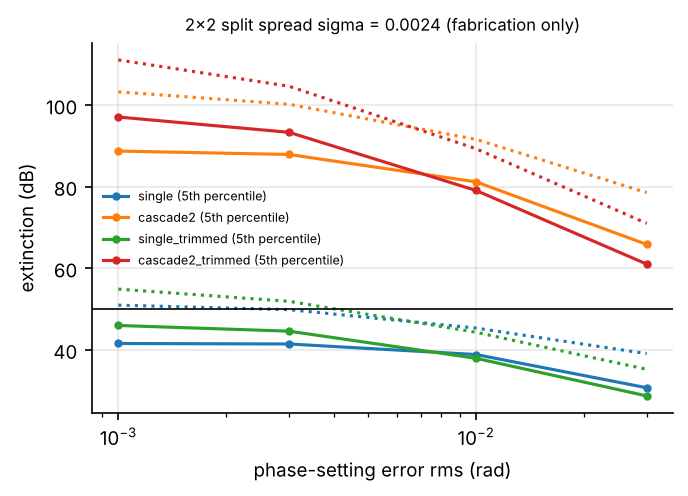
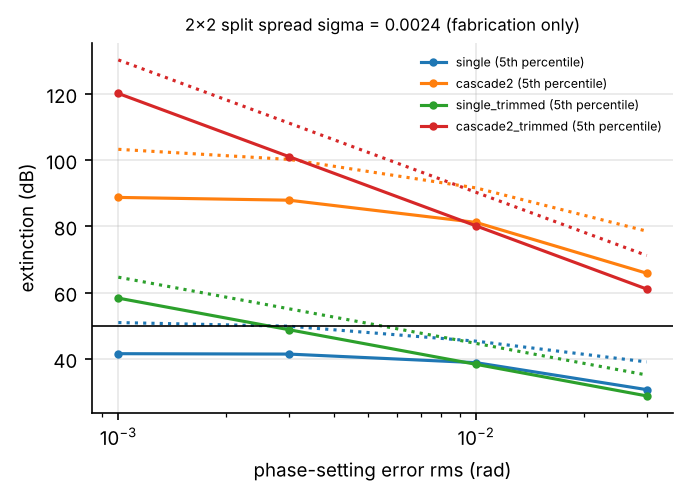
Module 4 and 6 results; exact trimmed-MZI null; faster OPA far field
- Switch Monte Carlo: cascaded MZI pair >= 50 dB in all trials (5th
  percentile 66-88 dB); trimmed single MZI needs <= 3 mrad phase accuracy
- Trimmed splitter now solves the full null condition (coupler and
  arm-loss imbalance)
- Actuator dynamics: ZVD shaping reaches 50 dB in ~49 ns with 2% f0 error
- Router leakage, insertion loss and input power; on-chip power handling
- OPA array factor restricted to the propagating band (was a dense
  nfft x N matrix); chunked atom-plane transform

Claude-Session: https://claude.ai/code/session_013HRuYiRKGyojFnTK4EEDMP

diff --git a/picsim/opa/array.py b/picsim/opa/array.py
@@ -85,8 +85,17 @@ class OPA:
         return np.exp(-1j * k * np.outer(s, self.xn)) @ c
 
     def far_field(self, phases):
-        """Far-field amplitude U(s) on self.s (element factor x array factor)."""
-        return self._E_el * self.array_factor(phases)
+        """Far-field amplitude U(s) on self.s (element factor x array factor).
+
+        Only the propagating band |s| < 1 is computed; evanescent components never reach the slit or the
+        atoms, and the emitted power is defined on |s| < 1.
+        """
+        if not hasattr(self, "_prop"):
+            self._prop = np.nonzero(np.abs(self.s) < 1)[0]
+        U = np.zeros_like(self._E_el)
+        idx = self._prop
+        U[idx] = self._E_el[idx] * self.array_factor(phases, self.s[idx])
+        return U
 
     # ----------------------------------------------------------------- relay
     def _powers(self, phases):
@@ -120,8 +129,10 @@ class OPA:
         p_em, u_t, _, _ = self._powers(phases)
         nz = np.nonzero(u_t)[0]
         k = 2 * np.pi / self.lam
-        s_eval = self.x_to_s(x_a)
-        E = np.exp(-1j * k * np.outer(s_eval, self.x[nz])) @ u_t[nz] * self.dx
+        s_eval = np.atleast_1d(self.x_to_s(x_a))
+        E = np.empty(len(s_eval), dtype=complex)
+        for i in range(0, len(s_eval), 128):  # chunked direct transform (memory)
+            E[i:i + 128] = np.exp(-1j * k * np.outer(s_eval[i:i + 128], self.x[nz])) @ u_t[nz] * self.dx
         # int |E|^2 ds = lambda int |u_t|^2 dx and ds = dx_a / x_scale
         return np.abs(E) ** 2 / (self.lam * self.x_scale * p_em)
 
@@ -134,10 +145,12 @@ def channel_response(opa: "OPA", x_a):
     slit = np.abs(opa.s) < opa.s_cut
     pupil = np.abs(opa.x) <= opa.A / (2 * opa.fill)
     nz = np.nonzero(pupil)[0]
-    D = np.exp(-1j * k * np.outer(opa.x[nz], opa.x_to_s(x_a))) * opa.dx  # (nz, M)
-    G = np.empty((opa.N, len(np.atleast_1d(x_a))), dtype=complex)
+    D = np.exp(-1j * k * np.outer(opa.x[nz], np.atleast_1d(opa.x_to_s(x_a)))) * opa.dx  # (nz, M)
+    G = np.empty((opa.N, D.shape[1]), dtype=complex)
+    sl = np.nonzero(slit)[0]
     for n, xn in enumerate(opa.xn):
-        U = np.where(slit, opa._E_el * np.exp(-1j * k * opa.s * xn), 0)
+        U = np.zeros_like(opa._E_el)
+        U[sl] = opa._E_el[sl] * np.exp(-1j * k * opa.s[sl] * xn)
         u = np.fft.fftshift(np.fft.ifft(np.fft.ifftshift(U))) / opa.dx
         G[n] = u[nz] @ D
     return G

diff --git a/picsim/circuits.py b/picsim/circuits.py
@@ -48,9 +48,9 @@ def mc_extinction(n, sigma_k, sigma_phi, sigma_a=0.0, stages=1, tunable=False, f
     """Monte Carlo extinction (dB) of a switch channel.
 
     stages: number of cascaded MZIs, all switched together (ON: all at phi = 0; OFF: all at null).
-    tunable: if True, each MZI's input splitter is itself a thermo-optically trimmed MZI, so the effective
-             splitting ratio is set to match the output coupler; residual error is then set by the phase
-             resolution of the trim, sigma_phi (see trimmed_kappa).
+    tunable: if True, each MZI's input splitter is itself a thermo-optically trimmed MZI, set to the exact
+             null condition (compensating coupler and arm-loss imbalance); the residual is set by the trim phase
+             error sigma_phi (see trimmed_kappa).
     floor: incoherent stray-light floor relative to the input (e.g. 1e-7 for -70 dB).
     """
     rng = np.random.default_rng(seed)
@@ -60,9 +60,12 @@ def mc_extinction(n, sigma_k, sigma_phi, sigma_a=0.0, stages=1, tunable=False, f
         for _ in range(stages):
             k1 = np.clip(k_mean + sigma_k * rng.standard_normal(), 1e-6, 1 - 1e-6)
             k2 = np.clip(k_mean + sigma_k * rng.standard_normal(), 1e-6, 1 - 1e-6)
-            if tunable:
-                k1 = trimmed_kappa(k2, sigma_phi * rng.standard_normal())
             a1 = 1 + sigma_a * rng.standard_normal()
+            if tunable:
+                # trim the input splitter to the exact null condition sqrt(k2 (1-k1)) a1 = sqrt((1-k2) k1),
+                # which compensates both coupler and arm-loss imbalance; residual set by the trim phase error
+                k_null = k2 * a1**2 / (k2 * a1**2 + (1 - k2))
+                k1 = trimmed_kappa(k_null, sigma_phi * rng.standard_normal())
             on, off = mzi_on_off(k1, k2, a1, 1.0, sigma_phi * rng.standard_normal())
             T_on *= on
             T_off *= off
